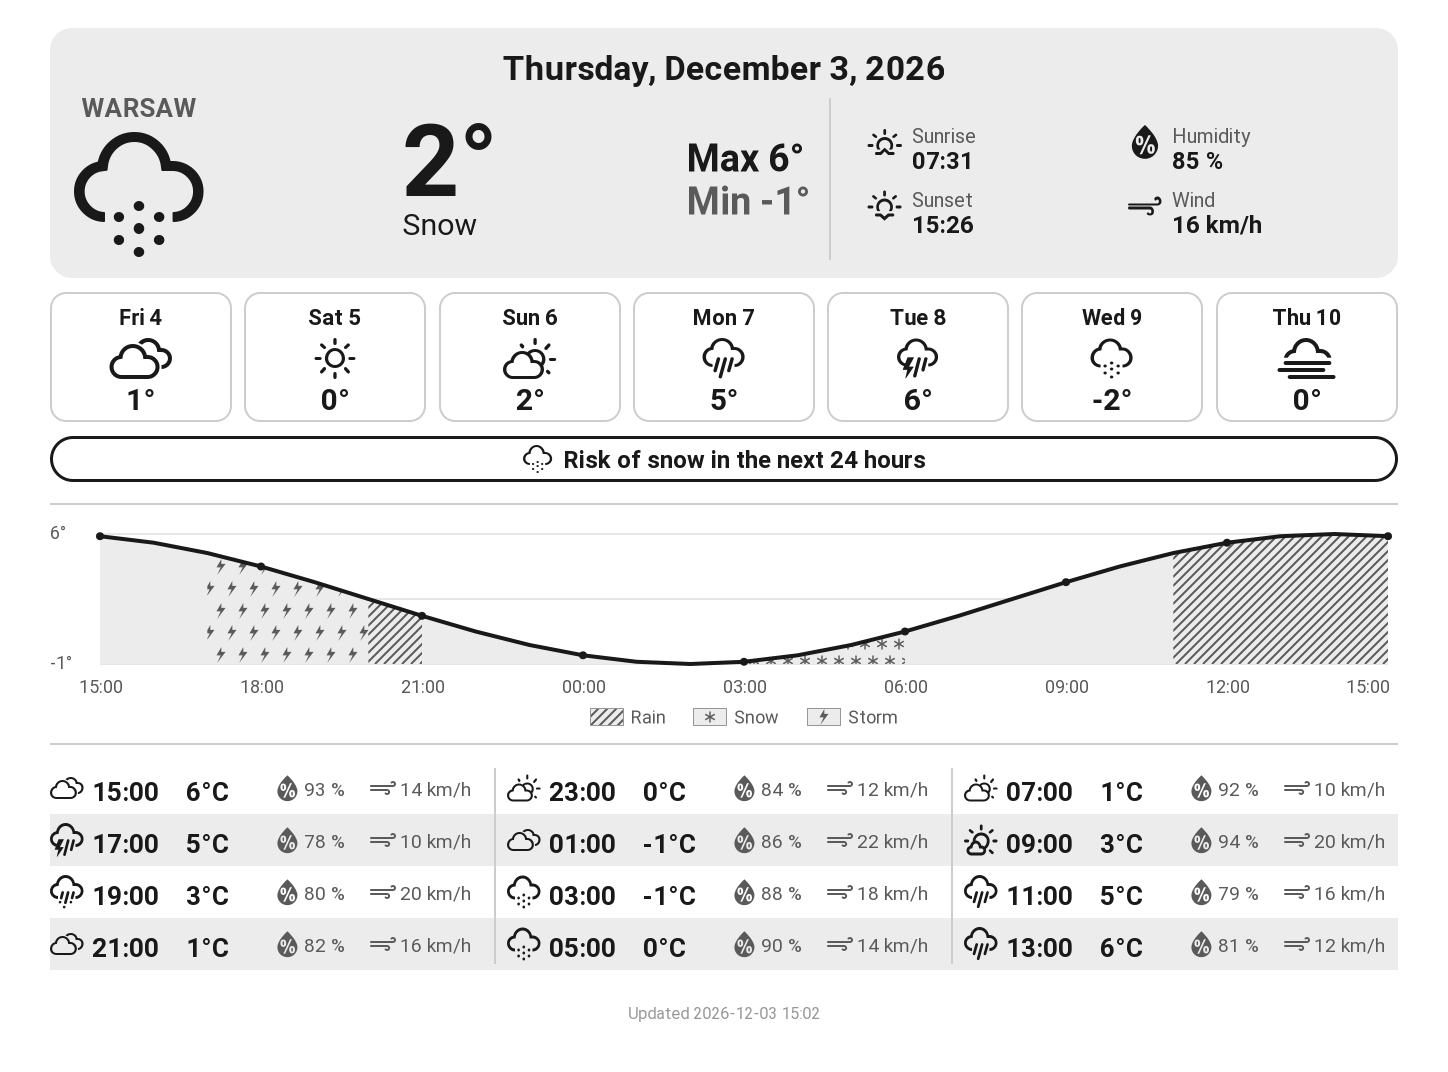
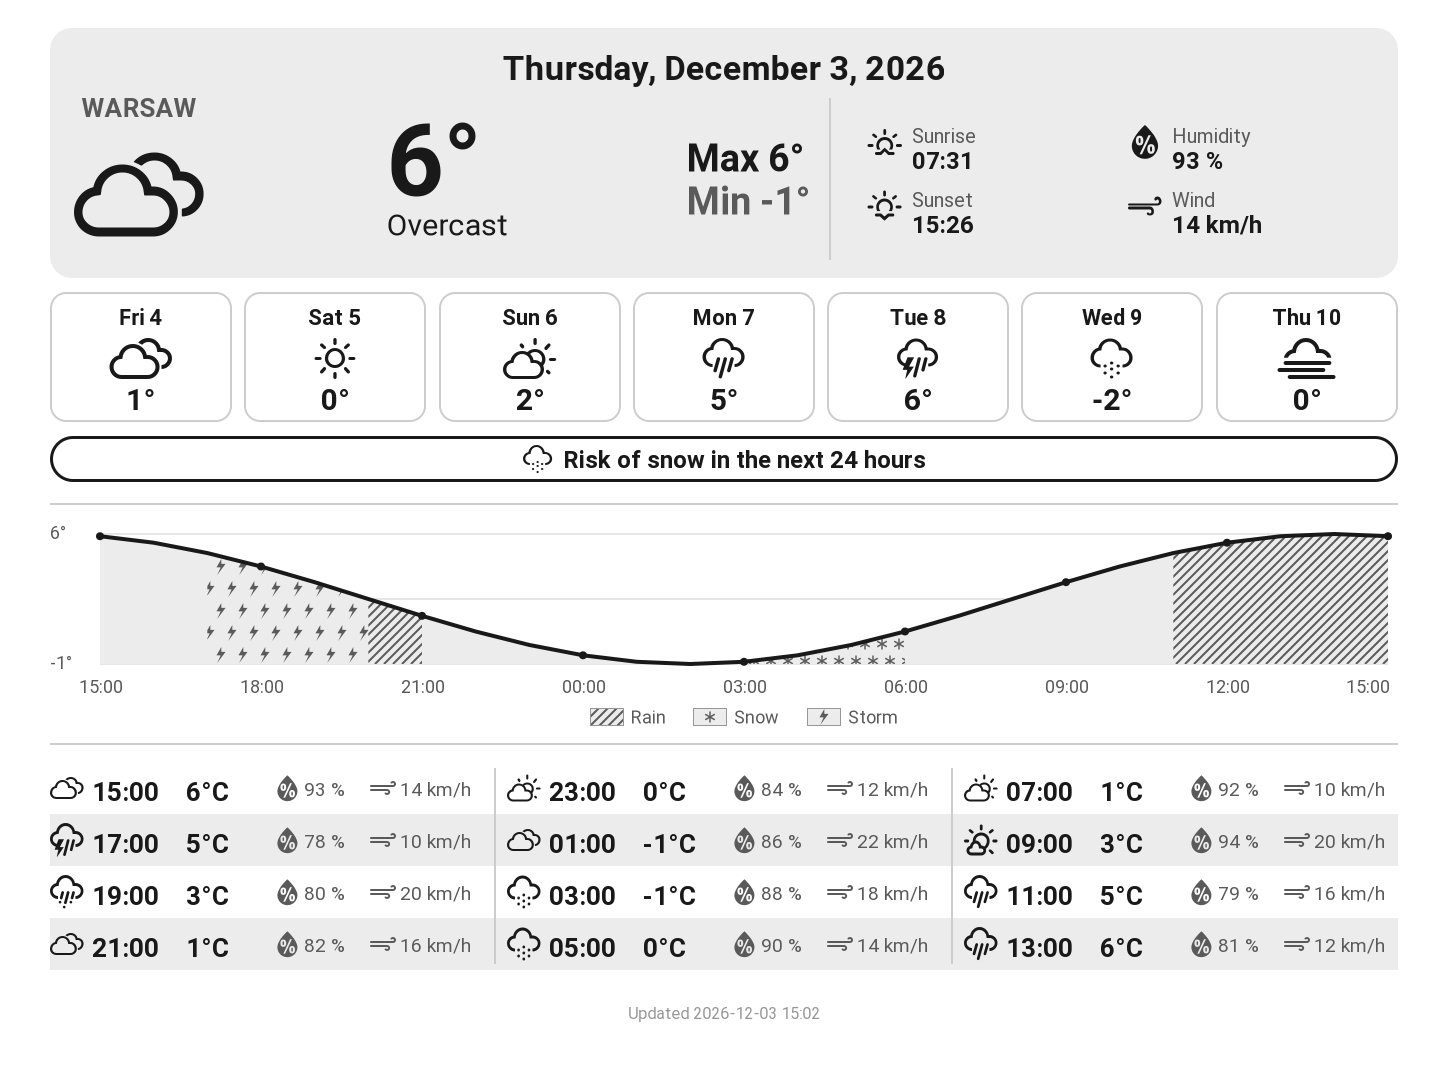
Show the current hour's weather, temperature, humidity and wind in the top card
The day's min, max, sunrise and sunset stay as they were.

Claude-Session: https://claude.ai/code/session_01ArRJHWoxrTZihEERid19vz

Changed region(s): [[0.0311, 0.1231, 0.1554, 0.2463], [0.2486, 0.0924, 0.3419, 0.2155], [0.808, 0.1231, 0.8391, 0.1539]]

diff --git a/kindleweather/lib/kindle_weather/render.py b/kindleweather/lib/kindle_weather/render.py
@@ -226,7 +226,8 @@ class _Dashboard:
         self.draw.line([(MARGIN, y), (self.width - MARGIN, y)], fill=GRAY_LIGHT, width=2)
 
     def _summary(self, top: int) -> int:
-        """Today's card: date on top; city and icon, temperature, min and max; details panel."""
+        """Today's card: date on top; city and the current weather, temperature, the day's
+        min and max; details panel."""
         draw, fonts, forecast = self.draw, self.fonts, self.forecast
         bottom = top + self.layout.card_height
         panel_width, padding = self.layout.panel_width, 24
@@ -255,7 +256,7 @@ class _Dashboard:
         )
         icon_top = body_top + place_box[3] - place_box[1] + 12
         self.icons.draw(
-            draw, forecast.today.weather_code, (left, icon_top, left + place_column, body_bottom)
+            draw, forecast.current.weather_code, (left, icon_top, left + place_column, body_bottom)
         )
 
         max_text = f"Max {round(forecast.today.temperature_max)}°"
@@ -266,8 +267,8 @@ class _Dashboard:
         self._text_stack(min_max_x, center_y, min_max, 14)
 
         # Temperature and description, centered between the city column and min/max.
-        temperature = f"{forecast.today.temperature_mean}°"
-        description = self.locale.describe(forecast.today.weather_code)
+        temperature = f"{round(forecast.current.temperature)}°"
+        description = self.locale.describe(forecast.current.weather_code)
         space_left, space_right = left + place_column + 30, min_max_x - 30
         description_font = _shrink_to_fit(
             draw, description, fonts["description"], space_right - space_left
@@ -293,10 +294,10 @@ class _Dashboard:
             y += height + gap
 
     def _details_panel(self, left: int, center_y: int, width: int) -> None:
-        hours = self.forecast.hours
         labels = self.locale.labels
-        humidity = round(sum(h.humidity for h in hours) / len(hours))
-        wind = round(sum(h.wind_speed for h in hours) / len(hours))
+        # Sunrise and sunset of the day, humidity and wind of the hour in progress.
+        humidity = round(self.forecast.current.humidity)
+        wind = round(self.forecast.current.wind_speed)
         # Row by row: sunrise and humidity, then sunset and wind.
         cells = (
             (labels["sunrise"], self.forecast.sunrise or "—", "sunrise"),

diff --git a/kindleweather/lib/kindle_weather/weather.py b/kindleweather/lib/kindle_weather/weather.py
@@ -108,6 +108,11 @@ class Forecast:
     upcoming_days: list[DayForecast]
 
     @property
+    def current(self) -> HourlyForecast:
+        """The hour in progress."""
+        return self.hours[0]
+
+    @property
     def precipitation_risk(self) -> str | None:
         """Most important precipitation kind expected in the next 24 hours, if any."""
         kinds = {precipitation_kind(entry.weather_code) for entry in self.hours}

diff --git a/README.md b/README.md
@@ -14,7 +14,7 @@ key is needed.
 
 ## Features
 
-- Today: conditions, temperature, min and max, sunrise and sunset, humidity and wind
+- Now: weather, temperature, humidity and wind of the current hour, with the day's min, max, sunrise and sunset
 - The next 7 days, with their weather icon and mean temperature
 - A precipitation alert for the next 24 hours: snow, thunderstorm or rain
 - A temperature chart and an hourly table for the next 24 hours, with rain, snow and thunderstorm hours shaded
